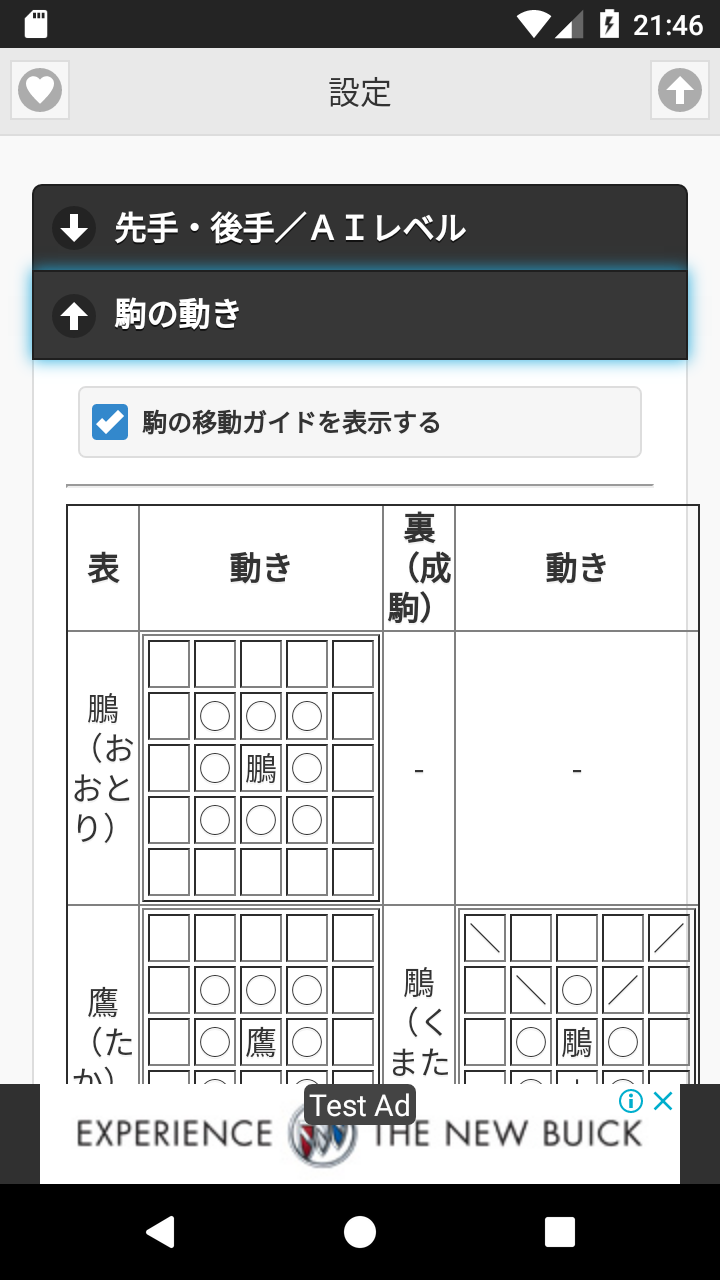
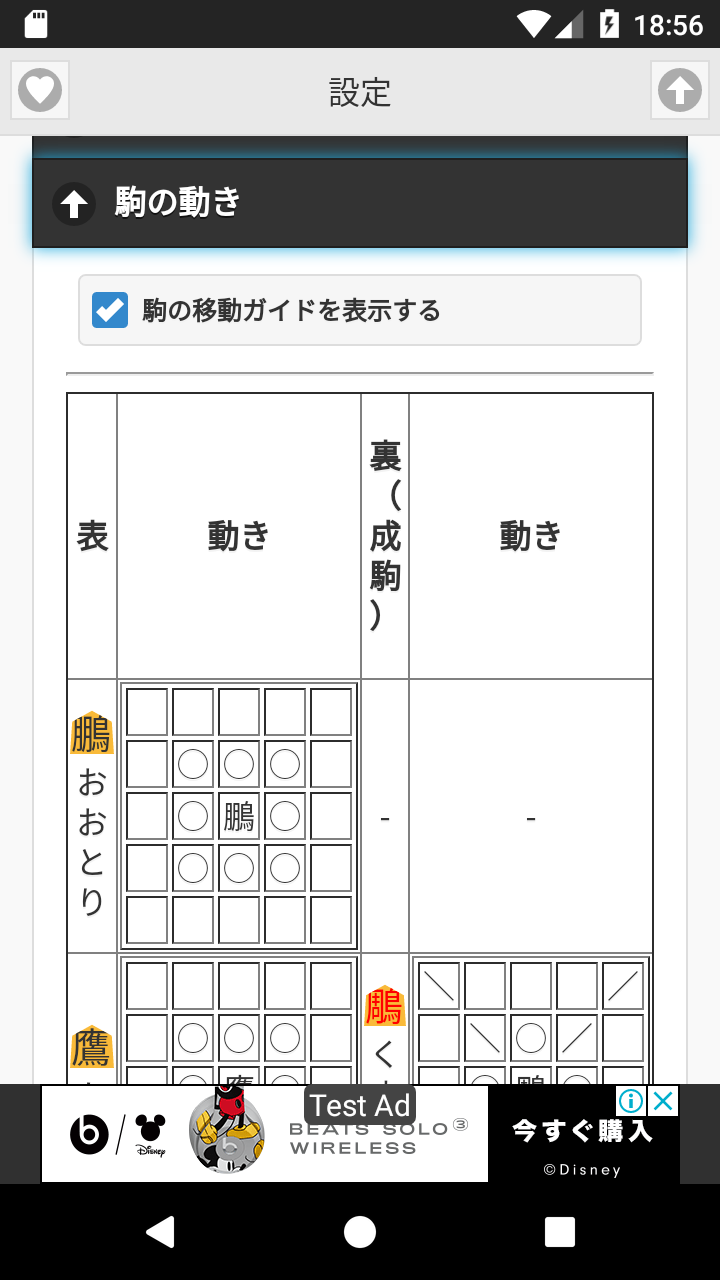
feat: 駒の動きガイド画像修正 feat: 禽将棋手筋追加

diff --git a/software/2019-01-02/torishogi.html b/software/2019-01-02/torishogi.html
@@ -216,11 +216,9 @@ MathJax.Hub.Config({
       <span>02 January 2019</span>
     </div>
     <div class="content">
-      <p><a href="https://play.google.com/store/apps/details?id=torishogi.io.github.happyclam"><img src="/images/ja_badge_web_generic.png" alt="禽将棋" title="禽将棋" width="155" height="60" /></a></p>
-
-<h3 id="とにかく一度遊んでみたかった">とにかく一度遊んでみたかった</h3>
-<p>　Twitterで<ruby>禽将棋<rt>とりしょうぎ</rt></ruby>の存在を知り、是非一度やってみたいと思って早速作ってみました。詳しいルールは<a href="https://ja.wikipedia.org/wiki/禽将棋">Wikipedia</a>を見ていただくとして、通常の将棋との違いについて色々面白い事に気づいたので書いてみます。<br />
-　アプリの説明用の記事は別途用意しようと思ってます。というか思っていたより面白い発見が多いので禽将棋用のサイトを立ち上げたい気分です<img class="emoji" title="sweat_smile" alt="sweat_smile" src="https://github.global.ssl.fastly.net/images/icons/emoji/sweat_smile.png" height="20" width="20" align="absmiddle" /></p>
+      <h3 id="とにかく一度遊んでみたかった">とにかく一度遊んでみたかった</h3>
+<p>　Twitterで<ruby>禽将棋<rt>とりしょうぎ</rt></ruby>の存在を知り、是非一度遊んでみたいと思って早速作ってみました。<a href="https://play.google.com/store/apps/details?id=torishogi.io.github.happyclam"><img src="/images/ja_badge_web_generic.png" alt="禽将棋" title="禽将棋" width="155" height="60" /></a><br />
+詳しいルールは<a href="https://ja.wikipedia.org/wiki/禽将棋">Wikipedia</a>を見ていただくとして、通常の将棋との違いについて色々面白い事に気づいたので紹介しようと思います。</p>
 
 <h3 id="駒の動きの特徴">駒の動きの特徴</h3>
 <p>　<a href="https://ja.wikipedia.org/wiki/禽将棋">Wikipedia</a>で駒の動きの一覧表に◯と☆と直線（｜ー＼／）を使って駒の動きを説明しているのを見て、最初☆は不要なんじゃないか？と思いました。例えば<ruby>雉<rt>きじ</rt></ruby>の動きは以下のように書かれています。</p>
@@ -329,7 +327,7 @@ MathJax.Hub.Config({
                   </table>
 </div>
 
-<p>　この☆の部分を◯で書いたとしても駒を飛び越えられることは理解出来るのではないでしょうか？間に駒があっても直線では結ばれていないので飛び越えられるんだなと分かります。プログラムで駒の動きを定義する時も直線（何ヶ所でも移動出来る）と◯（場所指定で動く）の二種類の定義しか必要ありませんでした。<br />
+<p>　この☆の部分を◯で書いたとしても駒を飛び越えられることは理解出来るのではないでしょうか？間に駒があっても直線では結ばれていないので飛び越えられるんだなと理解出来ます。プログラムで駒の動きを定義する時も直線（何ヶ所でも移動出来る）と◯（場所指定で動く）の二種類の定義しか必要ありませんでした。<br />
 　でも、<ruby>鷹<rt>たか</rt></ruby>の成駒である<ruby>鵰<rt>くまたか</rt></ruby>の動きの説明を見て☆と◯を区別する必要があることに気づきました。</p>
 
 <div>
@@ -372,7 +370,7 @@ MathJax.Hub.Config({
                   </table>
 </div>
 
-<p>　<ruby>鵰<rt>くまたか</rt></ruby>は斜め後方に二つだけ動けるのです。斜め後方に二つ動く時は、間に駒があっては駄目なので☆を使っては書けませんし、三つ以上動くことは出来ませんので直線で表すことも出来ません。やはり☆と◯は区別して表現する必要がありそうです。この動きは<strong>移動回数制限付きの直線</strong>と言い換えることも出来ます。本将棋の駒にはない動きですね。<br />
+<p>　<ruby>鵰<rt>くまたか</rt></ruby>は斜め後方に二つだけ動けるのです。斜め後方に二つ動く時は、間に駒があっては駄目なので☆を使っては書けませんし、三つ以上動くことは出来ませんので直線で表すことも出来ません。やはり☆と◯は区別して表現する必要がありそうです。この<ruby>鵰<rt>くまたか</rt></ruby>の斜め後方への動きは<strong>移動回数制限付きの直線</strong>と言い換えることも出来ます。<strong>本将棋の駒にはない動き</strong>ですね。<br />
 　この動きがあるために汎用的に作っていた（と思っていた）プログラムを修正する必要がありました。連続移動かそうでないかの２値（Boolean型）で定義していたためです。ソフト開発って作り始めないと気づかないこと多いですね<img class="emoji" title="sweat_smile" alt="sweat_smile" src="https://github.global.ssl.fastly.net/images/icons/emoji/sweat_smile.png" height="20" width="20" align="absmiddle" /></p>
 
 <h3 id="禽将棋の手筋">禽将棋の手筋</h3>
@@ -388,6 +386,21 @@ MathJax.Hub.Config({
     <p>吊るし雉（吊るし桂）<br />
 <a href="/images/tsurushi.png"><img src="/images/tsurushi.png" alt="雉頭の燕" title="雉頭の燕" /></a><br />
 　アプリとの対戦で出てきた局面ですが、雉を打って詰みです。</p>
+  </li>
+  <li>
+    <p>二燕（二歩）の有効活用<br />
+<a href="/images/kizi_ashi.gif"><img src="/images/kizi_ashi.gif" alt="二燕の有効活用" title="二燕の有効活用" /></a><br />
+　燕を突き捨ててその裏に打ってさらに二燕で鶴を捕獲</p>
+  </li>
+  <li>
+    <p>鶉の二段ロケット<br />
+<a href="/images/2maiuzura.gif"><img src="/images/2maiuzura.gif" alt="鶉の二段ロケット" title="鶉の二段ロケット" /></a><br />
+　燕が雁に成っても雁が後ろにしか進めません。本将棋のと金と違って鶉の前にあっても邪魔になるだけのようです。</p>
+  </li>
+  <li>
+    <p>鶉の串刺し<br />
+<a href="/images/kusizasi.gif"><img src="/images/kusizasi.gif" alt="鶉の串刺し" title="鶉の串刺し" /></a><br />
+　雉の利きを利用して鶴を打って鷹を取ろうとしましたが、鶉が自鵬（自玉）を睨んでいて鷹を取り返すことが出来ません（王手放置、自殺手）。</p>
   </li>
 </ol>
 

diff --git a/project/2019-01-03/torishogiapp.html b/project/2019-01-03/torishogiapp.html
@@ -228,7 +228,6 @@ MathJax.Hub.Config({
   <li>同一局面（手番も同じ）が４回現れると千日手でゲーム終了としています。</li>
   <li>現代将棋の打ち歩詰めと同様、打ち燕詰めは出来ません。</li>
   <li>現代将棋の二歩にあたる二燕は可能ですが、三燕は禁止。</li>
-  <li>同一局面が４回現れると千日手。</li>
   <li>行き場の無い駒は打てません（燕を一段目に打つ）</li>
   <li>王手放置は禁止です。</li>
 </ul>
@@ -236,7 +235,7 @@ MathJax.Hub.Config({
 <h3 id="駒の動き">駒の動き</h3>
 <ul>
   <li>◯はその位置に動ける</li>
-  <li>☆はその場所まで飛び越えて移動出来る</li>
+  <li>☆はその場所まで駒を飛び越えて移動出来る</li>
   <li>｜、ー、／、＼はその方向に何ヶ所でも移動出来るが、駒を飛び越えることは出来ない</li>
 </ul>
 
